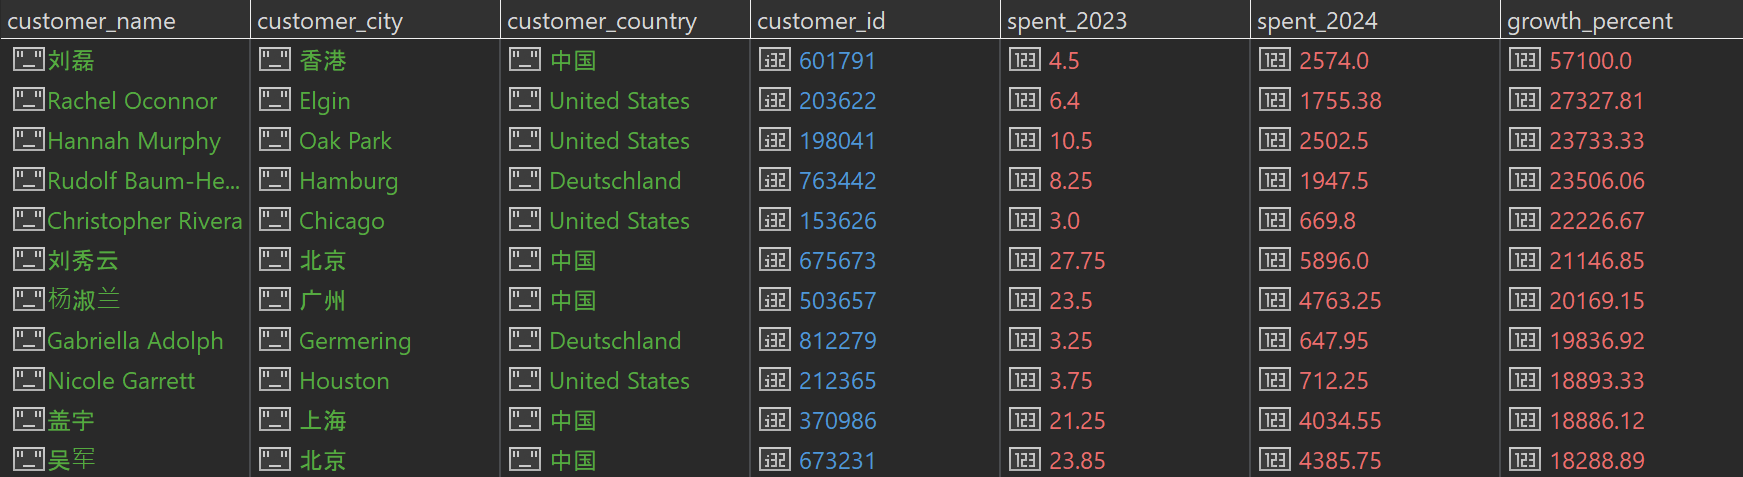
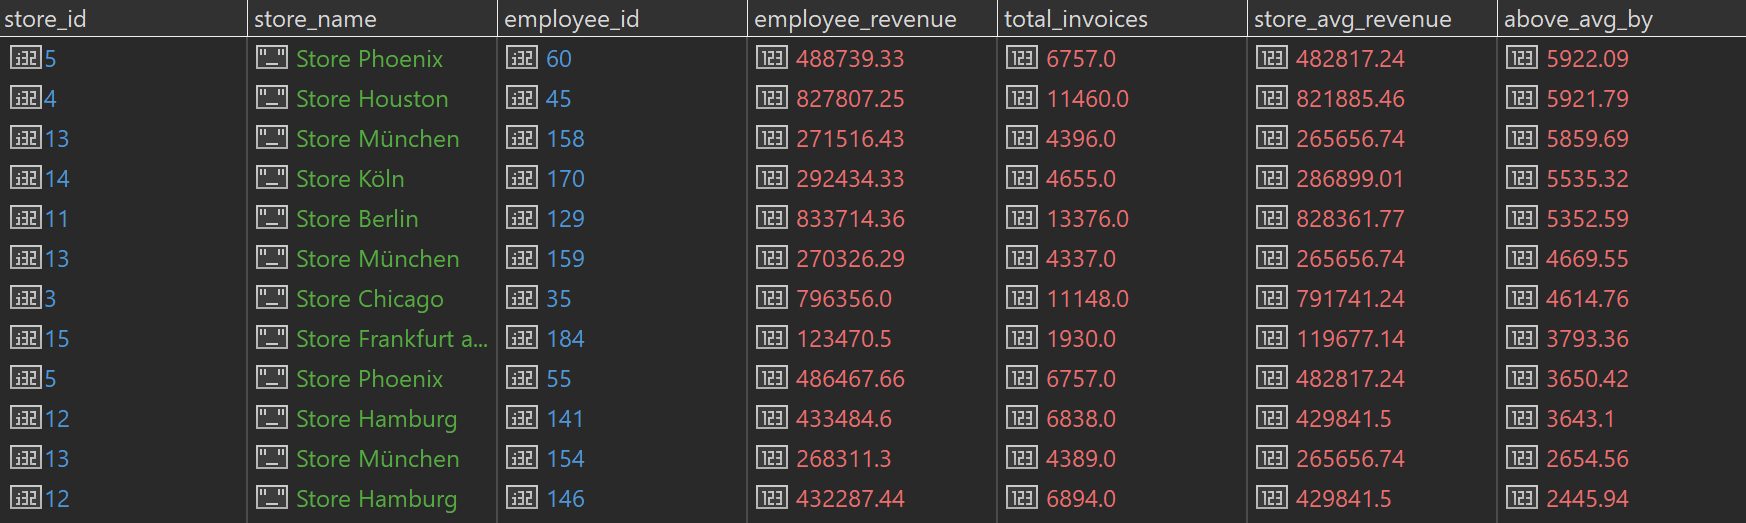
dashboard tanja

diff --git a/initial-schema/queries/tanja/README.md b/initial-schema/queries/tanja/README.md
@@ -12,7 +12,6 @@ db.invoices.aggregate([
   },
   { $unwind: "$lines" },
 
-  // Normalizacija valute u USD pre agregacije (fiksne, priblizne kursne stope)
   {
     $addFields: {
       "lines.line_total_usd": {
@@ -97,93 +96,68 @@ db.invoices.aggregate([
 
 *Prosecno vreme izvrsavanja: 14.10s*  
 
-### Upit 2: Kojih 20 kupaca je u 2024. godini imali najveći rast potrošnje u odnosu na 2023?
+### Upit 2: Koji zaposleni su tokom 2024. godine ostvarili prihod iznad proseka zaposlenih u svojoj prodavnici, i za koliko?
 
 ```javascript
-db.getCollection("invoices").aggregate([
+db.invoices.aggregate([
   {
-    $match: { transaction_type: "Sale" }
-  },
-  {
-    $group: {
-      _id: {
-        customer_id: "$customer.customer_id",
-        year: { $year: { $dateFromString: { dateString: "$date" } } }
-      },
-      customer_name: { $first: "$customer.name" },
-      customer_city: { $first: "$customer.city" },
-      customer_country: { $first: "$customer.country" },
-      total_spent: { $sum: "$invoice_total" }
+    $match: {
+      transaction_type: "Sale",
+      $expr: { $eq: [{ $year: { $dateFromString: { dateString: "$date" } } }, 2024] }
     }
   },
   {
     $group: {
-      _id: "$_id.customer_id",
-      customer_name: { $first: "$customer_name" },
-      customer_city: { $first: "$customer_city" },
-      customer_country: { $first: "$customer_country" },
-      yearly_data: {
-        $push: { year: "$_id.year", total_spent: "$total_spent" }
-      }
+      _id: { store_id: "$store_id", employee_id: "$employee_id" },
+      employee_revenue: { $sum: "$invoice_total" },
+      total_invoices: { $sum: 1 }
     }
   },
   {
-    $project: {
-      customer_name: 1,
-      customer_city: 1,
-      customer_country: 1,
-      spent_2023: {
-        $sum: {
-          $map: {
-            input: { $filter: { input: "$yearly_data", as: "d", cond: { $eq: ["$$d.year", 2023] } } },
-            as: "d", in: "$$d.total_spent"
-          }
-        }
-      },
-      spent_2024: {
-        $sum: {
-          $map: {
-            input: { $filter: { input: "$yearly_data", as: "d", cond: { $eq: ["$$d.year", 2024] } } },
-            as: "d", in: "$$d.total_spent"
-          }
+    $group: {
+      _id: "$_id.store_id",
+      store_avg_revenue: { $avg: "$employee_revenue" },
+      employees: {
+        $push: {
+          employee_id: "$_id.employee_id",
+          employee_revenue: "$employee_revenue",
+          total_invoices: "$total_invoices"
         }
       }
     }
   },
+  { $unwind: "$employees" },
   {
-    $match: { spent_2023: { $gt: 0 }, spent_2024: { $gt: 0 } }
+    $lookup: {
+      from: "stores",
+      localField: "_id",
+      foreignField: "_id",
+      as: "store_info"
+    }
   },
   {
     $project: {
       _id: 0,
-      customer_id: "$_id",
-      customer_name: 1,
-      customer_city: 1,
-      customer_country: 1,
-      spent_2023: { $round: ["$spent_2023", 2] },
-      spent_2024: { $round: ["$spent_2024", 2] },
-      growth_percent: {
-        $round: [
-          {
-            $multiply: [
-              { $divide: [{ $subtract: ["$spent_2024", "$spent_2023"] }, "$spent_2023"] },
-              100
-            ]
-          }, 2
-        ]
+      store_id: "$_id",
+      store_name: { $arrayElemAt: ["$store_info.store_name", 0] },
+      employee_id: "$employees.employee_id",
+      employee_revenue: { $round: ["$employees.employee_revenue", 2] },
+      total_invoices: "$employees.total_invoices",
+      store_avg_revenue: { $round: ["$store_avg_revenue", 2] },
+      above_avg_by: {
+        $round: [{ $subtract: ["$employees.employee_revenue", "$store_avg_revenue"] }, 2]
       }
     }
   },
-  { $match: { growth_percent: { $gt: 0 } } },
-  { $sort: { growth_percent: -1 } },
-  { $limit: 20 }
+  { $match: { above_avg_by: { $gt: 0 } } },
+  { $sort: { above_avg_by: -1 } }
 ])
 ```
 
 **Rezultat upita:**
 ![Rezultat upita2](2.query.png)
 
-*Prosecno vreme izvrsavanja: 43.09s*  
+*Prosecno vreme izvrsavanja: 7.13s*  
 
 ### Upit 3: Identifikovati koje prodavnice imaju najvise problema sa vracanjem robe i koja kategorija dominira u povracajima.
 

diff --git a/optimized-schema/queries/tanja/README.md b/optimized-schema/queries/tanja/README.md
@@ -58,94 +58,57 @@ db.invoice_lines_menadzer.aggregate([
 
 *Prosecno vreme izvrsavanja: 4.66s*  
 
-### Upit 2: Kojih 20 kupaca je u 2024. godini imali najveći rast potrošnje u odnosu na 2023?
+### Upit 2: KKoji zaposleni su tokom 2024. godine ostvarili prihod iznad proseka zaposlenih u svojoj prodavnici, i za koliko?
 
 ```javascript
 db.invoice_lines_menadzer.aggregate([
+  { $match: { transaction_type: "Sale", year: 2024 } },
   {
-    $match: {
-      transaction_type: "Sale",
-      year: { $in: [2023, 2024] }
+    $group: {
+      _id: { store_id: "$store_id", employee_id: "$employee_id" },
+      store_name: { $first: "$store_name" },
+      employee_revenue: { $sum: "$line_total" },
+      invoice_ids: { $addToSet: "$invoice_id" }
     }
   },
   {
     $group: {
-      _id: {
-        customer_id: "$customer_id",
-        year: "$year"
-      },
-      customer_name: { $first: "$customer_name" },
-      customer_city: { $first: "$customer_city" },
-      customer_country: { $first: "$customer_country" },
-      total_spent: { $sum: "$line_total" }
-    }
-  },
-  {
-    $group: {
-      _id: "$_id.customer_id",
-      customer_name: { $first: "$customer_name" },
-      customer_city: { $first: "$customer_city" },
-      customer_country: { $first: "$customer_country" },
-      yearly_data: {
-        $push: { year: "$_id.year", total_spent: "$total_spent" }
-      }
-    }
-  },
-  {
-    $project: {
-      customer_name: 1,
-      customer_city: 1,
-      customer_country: 1,
-      spent_2023: {
-        $sum: {
-          $map: {
-            input: { $filter: { input: "$yearly_data", as: "d", cond: { $eq: ["$$d.year", 2023] } } },
-            as: "d", in: "$$d.total_spent"
-          }
-        }
-      },
-      spent_2024: {
-        $sum: {
-          $map: {
-            input: { $filter: { input: "$yearly_data", as: "d", cond: { $eq: ["$$d.year", 2024] } } },
-            as: "d", in: "$$d.total_spent"
-          }
+      _id: "$_id.store_id",
+      store_name: { $first: "$store_name" },
+      store_avg_revenue: { $avg: "$employee_revenue" },
+      employees: {
+        $push: {
+          employee_id: "$_id.employee_id",
+          employee_revenue: "$employee_revenue",
+          total_invoices: { $size: "$invoice_ids" }
         }
       }
     }
   },
-  { $match: { spent_2023: { $gt: 0 }, spent_2024: { $gt: 0 } } },
+  { $unwind: "$employees" },
   {
     $project: {
       _id: 0,
-      customer_id: "$_id",
-      customer_name: 1,
-      customer_city: 1,
-      customer_country: 1,
-      spent_2023: { $round: ["$spent_2023", 2] },
-      spent_2024: { $round: ["$spent_2024", 2] },
-      growth_percent: {
-        $round: [
-          {
-            $multiply: [
-              { $divide: [{ $subtract: ["$spent_2024", "$spent_2023"] }, "$spent_2023"] },
-              100
-            ]
-          }, 2
-        ]
+      store_id: "$_id",
+      store_name: 1,
+      employee_id: "$employees.employee_id",
+      employee_revenue: { $round: ["$employees.employee_revenue", 2] },
+      total_invoices: "$employees.total_invoices",
+      store_avg_revenue: { $round: ["$store_avg_revenue", 2] },
+      above_avg_by: {
+        $round: [{ $subtract: ["$employees.employee_revenue", "$store_avg_revenue"] }, 2]
       }
     }
   },
-  { $match: { growth_percent: { $gt: 0 } } },
-  { $sort: { growth_percent: -1 } },
-  { $limit: 20 }
+  { $match: { above_avg_by: { $gt: 0 } } },
+  { $sort: { above_avg_by: -1 } }
 ])
 ```
 
 **Rezultat upita:**
 ![Rezultat upita2](2.query.png)
 
-*Prosecno vreme izvrsavanja: 34.10s*  
+*Prosecno vreme izvrsavanja: 4.3s*  
 
 ### Upit 3: Identifikovati koje prodavnice imaju najvise problema sa vracanjem robe i koja kategorija dominira u povracajima.
 
